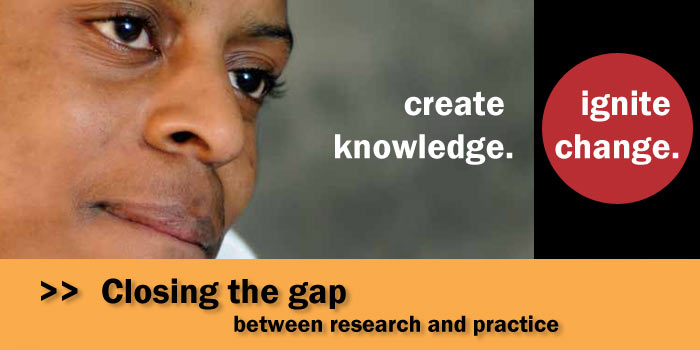
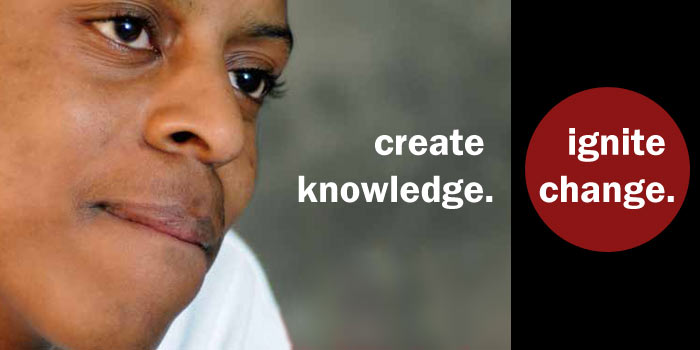
updated rotating graphic and new stanford colors

diff --git a/css/style.css b/css/style.css
@@ -79,7 +79,7 @@ h3 {
 	border-bottom-right-radius: 10px;
 	border-bottom-left-radius: 10px;
 	border-top-width: 5px;
-	border-top-color: #e3dfd5;
+	border-top-color: #DAD7CB;
 	border-top-style: solid;	
 }
 #nav_container{
@@ -98,7 +98,7 @@ h3 {
 	margin: 0 auto;
 	width: 940px;
 	padding: 0px 10px 10px 10px;
-	background-color: #e3dfd5;
+	background-color: #DAD7CB;
 	-moz-border-radius: 10px;
 	border-radius: 10px;
 	position: relative;
@@ -145,7 +145,7 @@ h3 {
 #calloutbox{
 	widows: 300px;
 	height: 120px;
-	background-color: #aca68d;
+	background-color: #B6B1A9;
 	padding: 10px;
 	float: left;
 	border-style: outset;
@@ -187,7 +187,7 @@ img{
 	height: 40px;
 	width:950px;
 	color: #FFFFFF;
-	background: #666666;
+	background: #4D4F53;
 	font-family: arial,verdana, sans-serif;
 	font-size: 8pt;
 	color: #ffffff;
@@ -298,12 +298,12 @@ padding: 3px 3px;
 { width: 190px;
   float: right;
   margin: 10px 0 0 0;
-  padding: 10px 10px 10px 10px;
+  padding: 10px 10px 10px 0px;
   text-align:left;
   	font-family:arial,verdana, sans-serif;
 	font-size: 10px;
 	font-color: #2d2e29;
-	background-color: #e9e6df;
+	background-color: #DAD7CB;
 }
 
 #column1 h1 {
